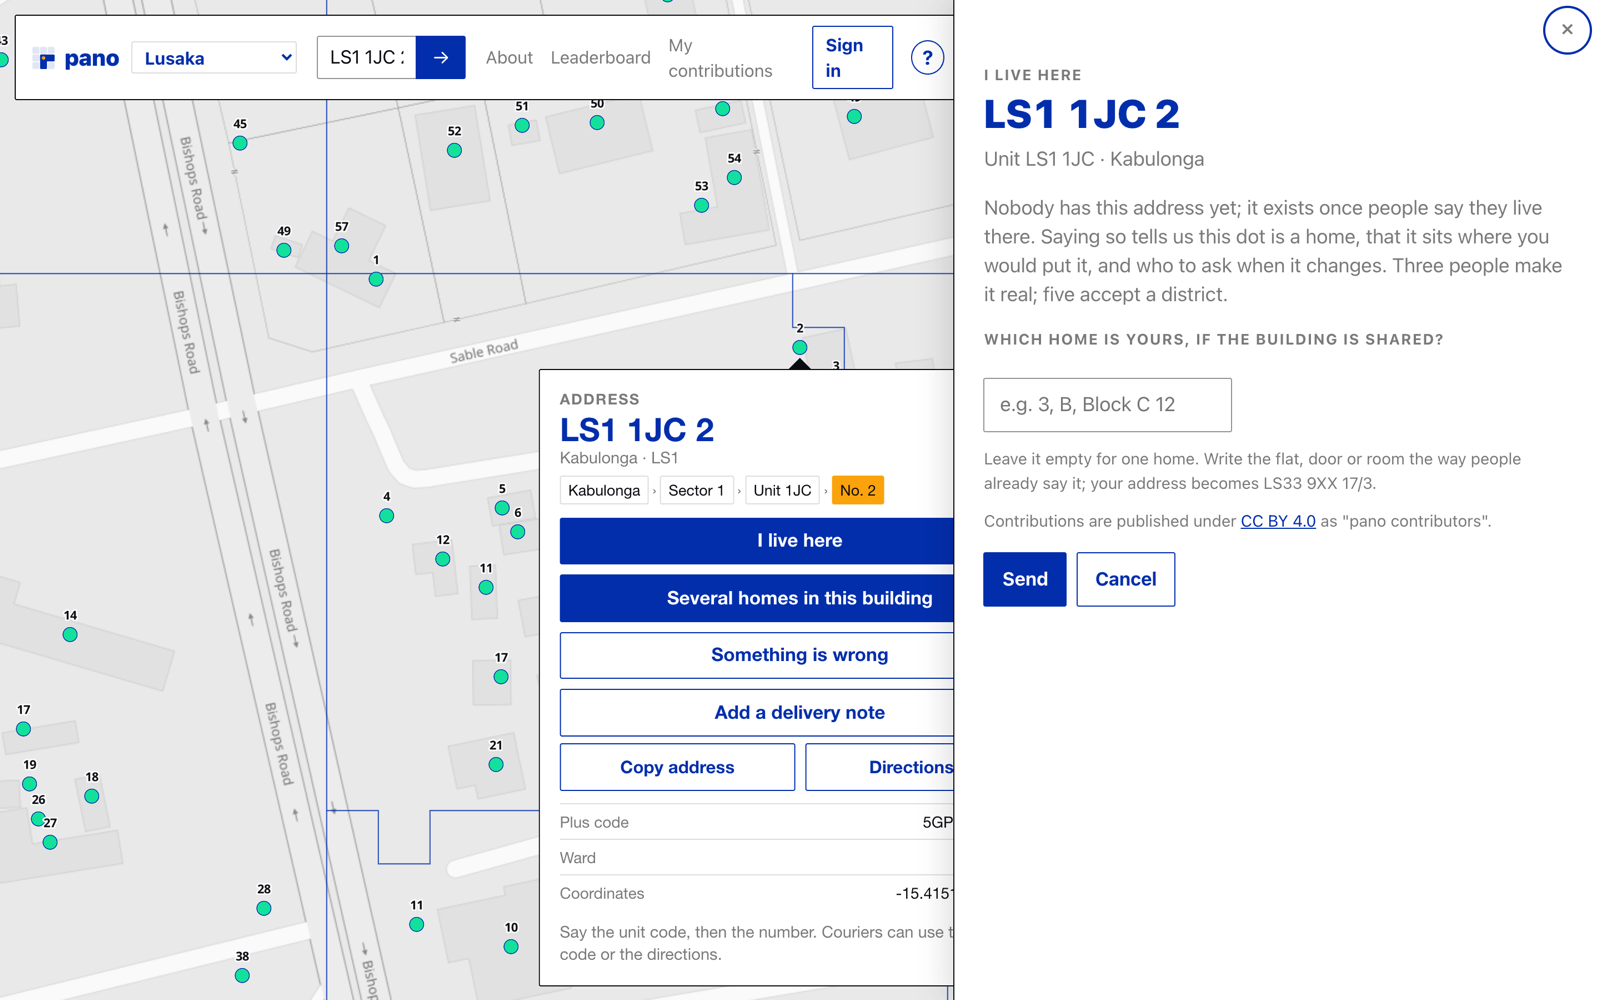
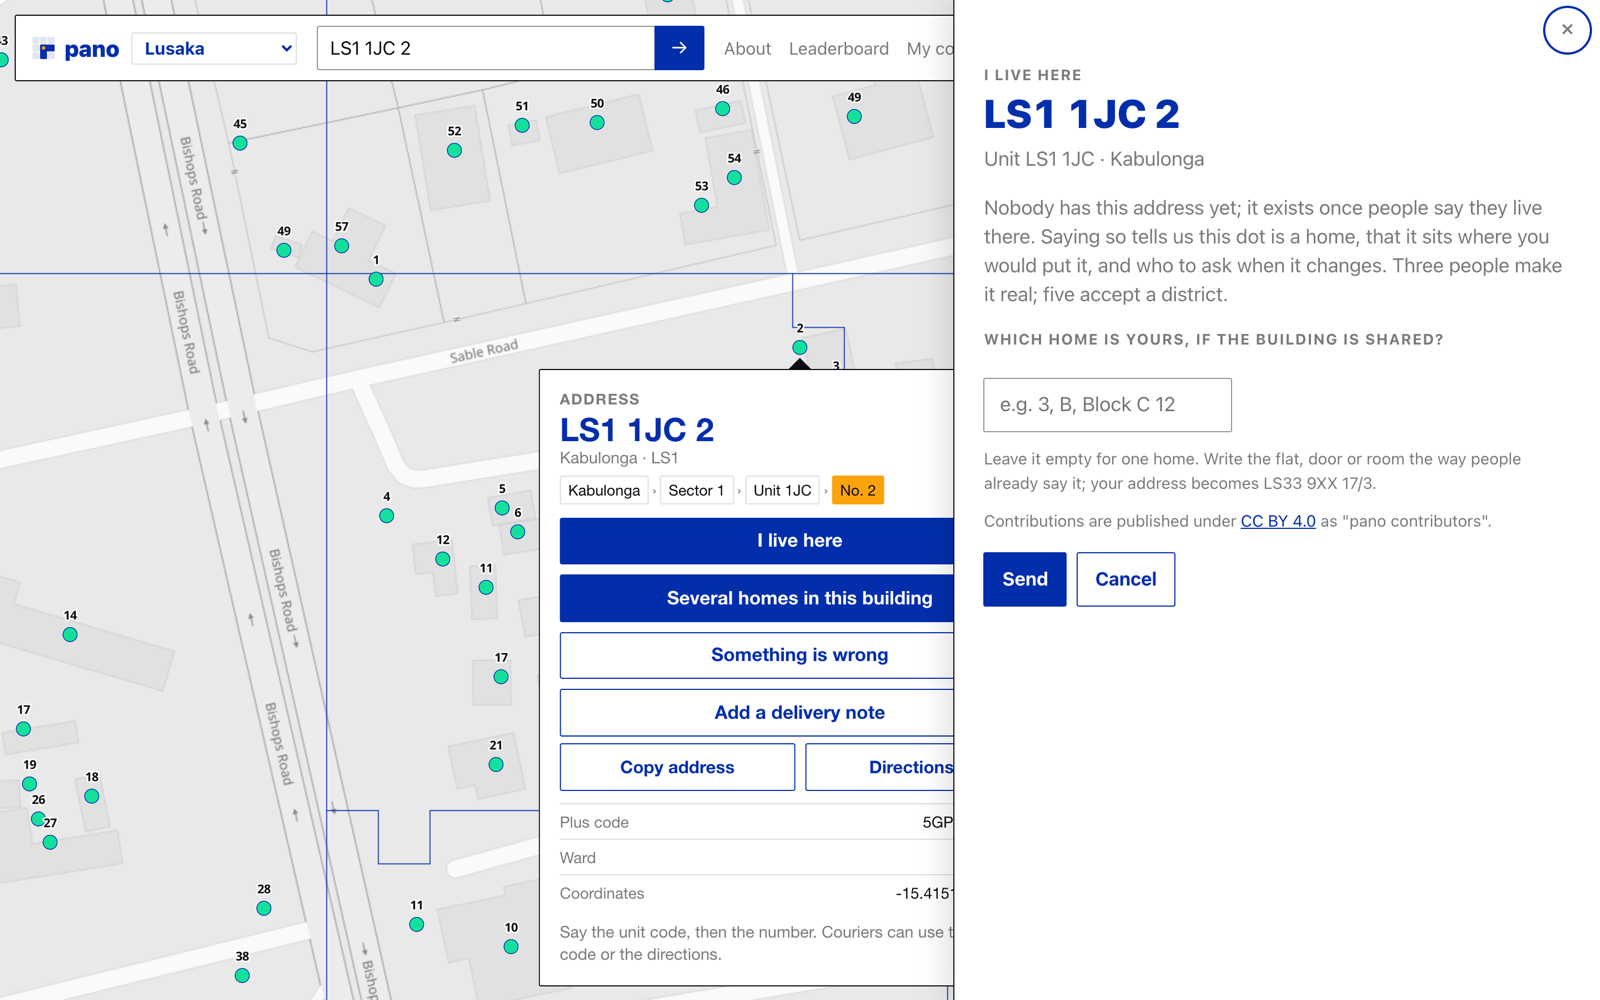
fix: room in the bar for the town chooser
The desktop bar grows to 96rem, the search keeps a real minimum width,
and nav links stay on one line.

Claude-Session: https://claude.ai/code/session_015MA6EVJhnYjPz7w1iBwb9f

Changed region(s): [[0.1875, 0.0, 0.5938, 0.124], [0.0, 0.031, 0.125, 0.093]]

diff --git a/app/assets/stylesheets/application.css b/app/assets/stylesheets/application.css
@@ -82,7 +82,7 @@ a:hover { text-decoration: underline; text-underline-offset: .2em; }
 .map { position: fixed; inset: 0; background: #F4F4F4; }
 .bar { position: fixed; top: 1.2rem; left: 1.2rem; right: 1.2rem; z-index: 5; display: flex; align-items: center; justify-content: space-between; padding: .8rem 1.2rem; background: var(--paper); border: 1px solid var(--ink); border-radius: var(--radius); }
 .bar nav { display: flex; gap: 1.4rem; align-items: center; }
-.bar .search { position: relative; display: flex; flex: 1; min-width: 12rem; margin: 0 1.6rem; }
+.bar .search { position: relative; display: flex; flex: 1; min-width: 20rem; margin: 0 1.6rem; }
 .bar .search input { flex: 1; min-width: 0; border: 1px solid var(--field-border); border-right: 0; border-radius: var(--radius) 0 0 var(--radius); padding: .6rem 1rem; font: inherit; font-size: 1.5rem; background: var(--paper); color: var(--ink); }
 .bar .search input::placeholder { color: var(--subtle); }
 .bar .search input:focus { outline: none; }
@@ -99,7 +99,7 @@ a:hover { text-decoration: underline; text-underline-offset: .2em; }
   .bar { flex-wrap: wrap; gap: .8rem; }
   .bar .search { order: 3; flex-basis: 100%; margin: 0; }
 }
-.bar nav a { color: var(--subtle); font-size: 1.4rem; }
+.bar nav a { color: var(--subtle); font-size: 1.4rem; white-space: nowrap; }
 /* The basemap switch: a thumbnail of the other mode, next to the zoom buttons. */
 .maplibregl-ctrl.basemap-switch { margin: 0 10px 10px 0; }
 .basemap-switch__btn { display: flex; align-items: flex-end; justify-content: center; width: 6.8rem; height: 6.8rem; padding: 0 0 .4rem; border: 2px solid #fff; border-radius: 8px; box-shadow: 0 1px 4px rgba(0,0,0,.35); background-size: cover; background-position: center; color: #fff; font: inherit; font-size: 1.2rem; font-weight: 700; letter-spacing: .04em; text-shadow: 0 1px 2px rgba(0,0,0,.8); cursor: pointer; }
@@ -114,7 +114,7 @@ a:hover { text-decoration: underline; text-underline-offset: .2em; }
 .card .address { font-size: 3.4rem; font-weight: 900; line-height: 1.02; color: var(--accent); margin: 0 0 .6rem; font-variant-numeric: tabular-nums; }
 .card .note { color: var(--subtle); font-size: 1.3rem; margin: 1rem 0 0; }
 @media (min-width: 880px) {
-  .bar { right: auto; width: min(76rem, calc(100vw - 2.4rem)); }
+  .bar { right: auto; width: min(96rem, calc(100vw - 2.4rem)); }
 }
 .maplibregl-ctrl-attrib { font-family: inherit; font-size: 1.1rem; }
 @media (prefers-reduced-motion: reduce) { *, *::before, *::after { transition-duration: .01ms !important; animation-duration: .01ms !important; } }
@@ -322,4 +322,4 @@ select.field { appearance: auto; }
 .offline-pill { position: absolute; left: 50%; bottom: -1.6rem; transform: translate(-50%, 100%); padding: .3rem 1rem; background: var(--ink); color: var(--paper); border-radius: 999px; font-size: 1.2rem; font-weight: 700; letter-spacing: .04em; white-space: nowrap; }
 
 /* Town chooser in the bar */
-.bar .town { font: inherit; font-size: 1.4rem; font-weight: 700; color: var(--accent); background: var(--paper); border: 1px solid var(--hairline); border-radius: var(--radius); padding: .3rem .6rem; margin-left: 1rem; max-width: 16rem; }
+.bar .town { flex: none; font: inherit; font-size: 1.4rem; font-weight: 700; color: var(--accent); background: var(--paper); border: 1px solid var(--hairline); border-radius: var(--radius); padding: .3rem .6rem; margin-left: 1rem; max-width: 16rem; }
